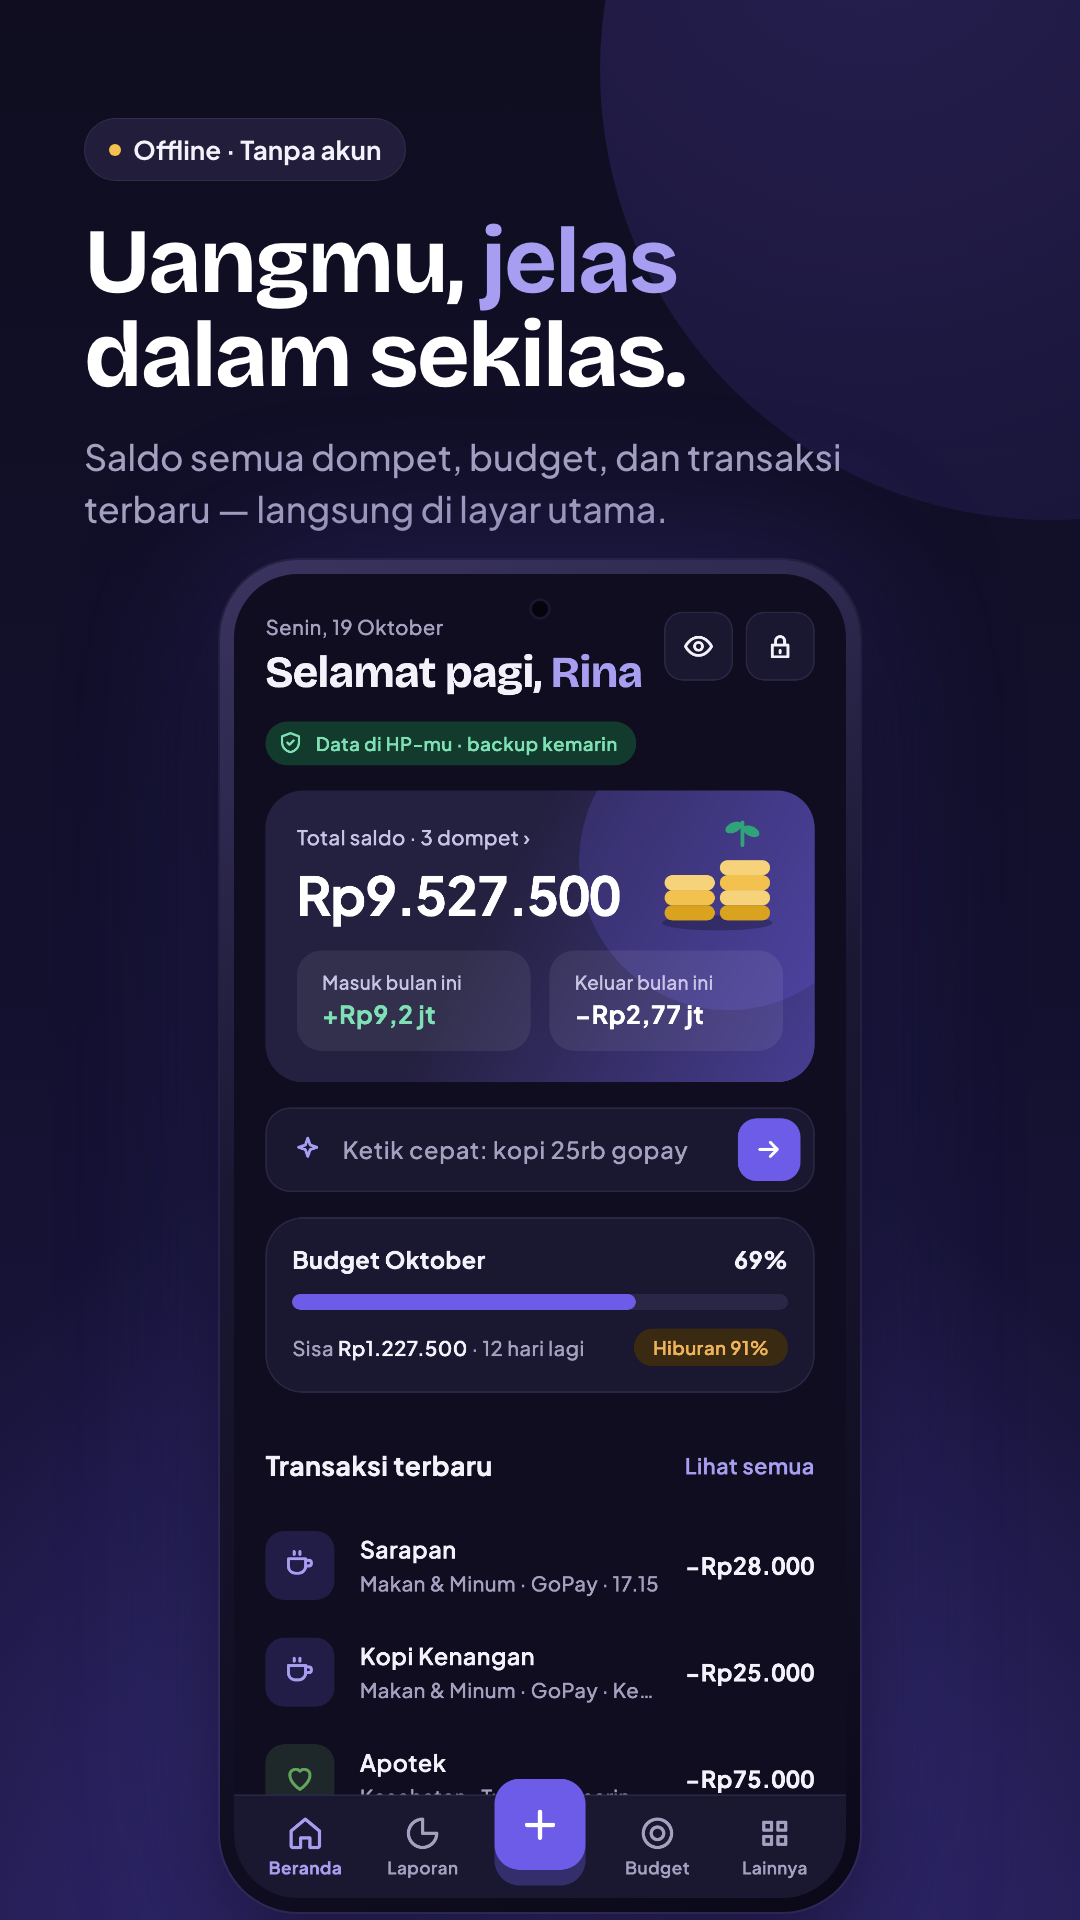
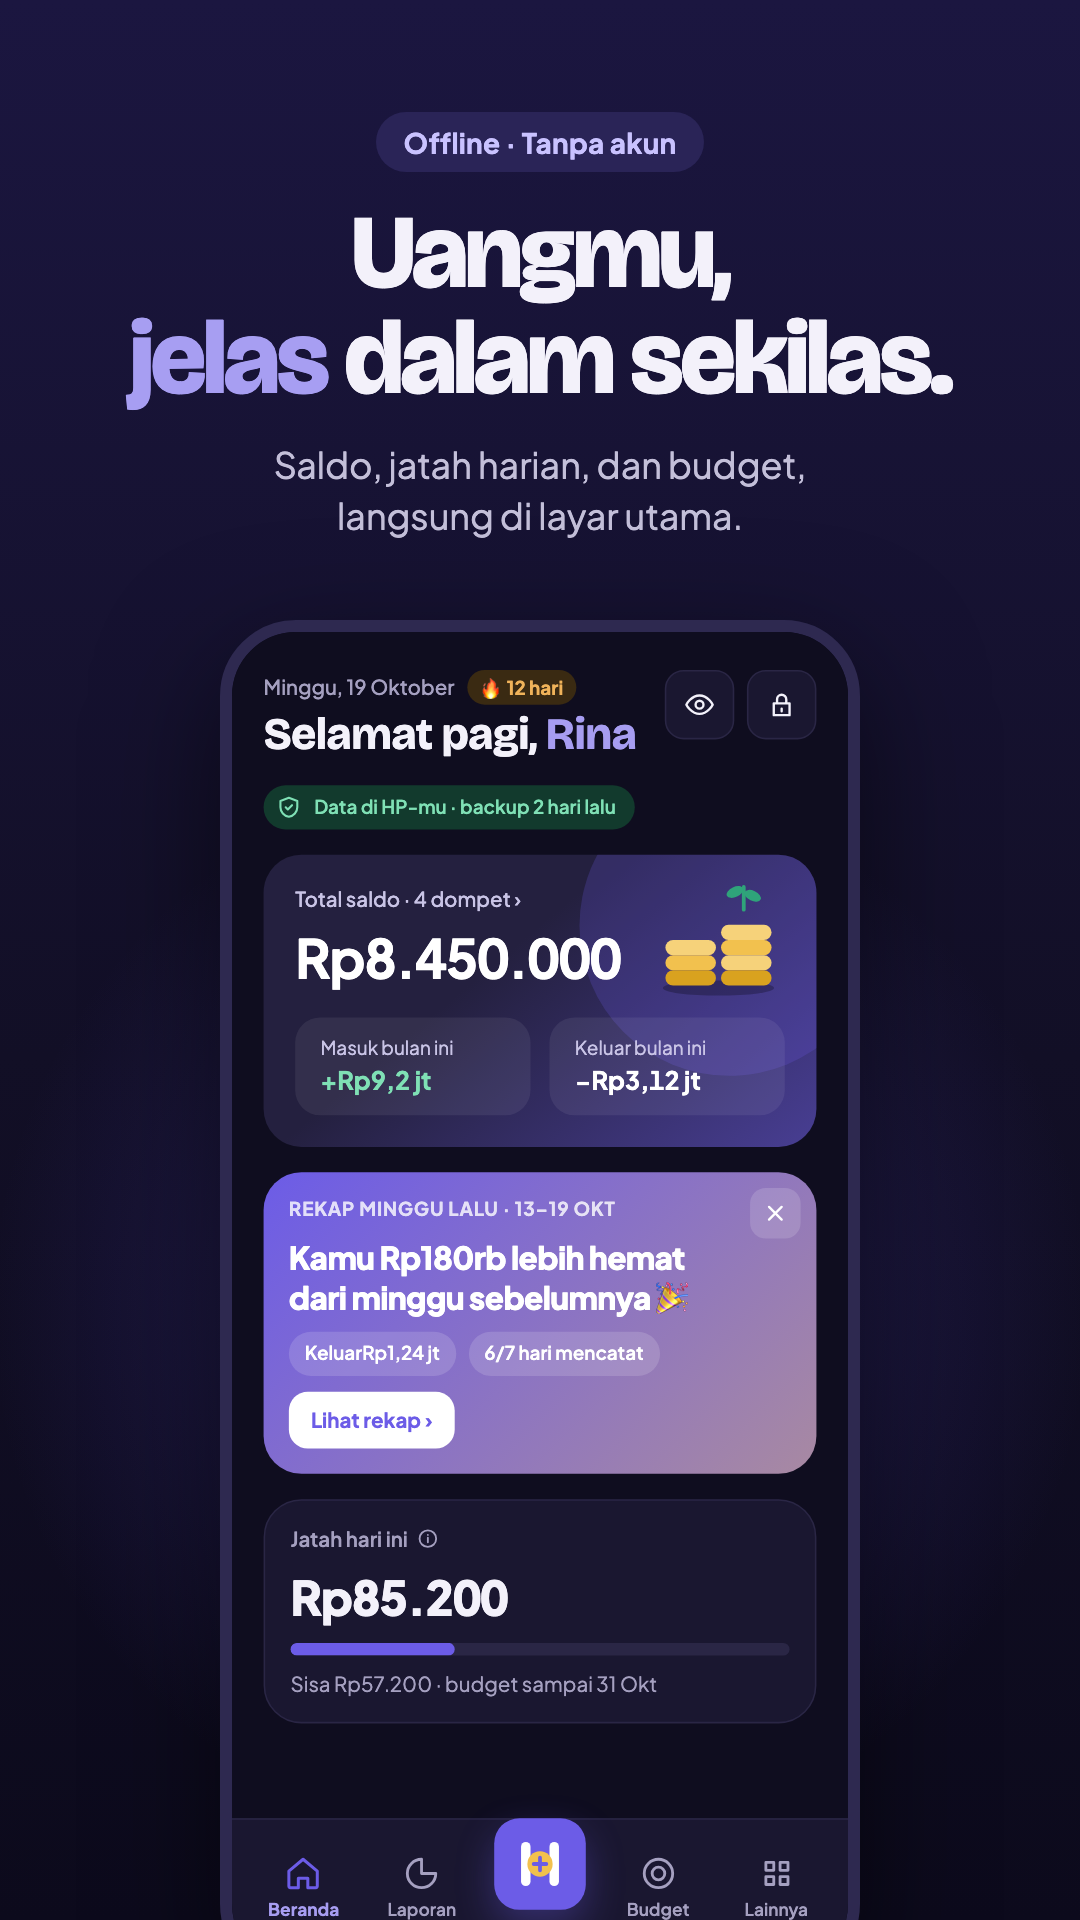
Listingan Play Store baru: 8 screenshot 1080×1920 (Beranda, Catat, Scan struk, Budget, Target, Rapor, Kekayaan, Aman) dari artboard canvas PlayStore01–08; deskripsi diperbarui dengan fitur 0.2, promo Pro gratis s.d. 28 Feb 2027, daftar Pro baru, email halo.hitungin@gmail.com, catatan penggantian tek

diff --git a/branding/play_store/LISTING.md b/branding/play_store/LISTING.md
@@ -1,55 +1,87 @@
 # Listingan Play Store — HitungIn (id)
 
+> Versi 0.2.x (rilis produksi pertama). Bagian **Promo** di deskripsi lengkap wajib
+> diganti setelah PROMO_END (28 Februari 2027) — lihat catatan di bawah.
+
 ## Nama aplikasi (≤30)
 HitungIn - Catat Keuangan
 
 ## Deskripsi singkat (≤80)
-Catat keuangan pribadi tanpa ribet. Offline, tanpa akun, data aman di HP-mu.
+Catat keuangan secepat chat. Offline, tanpa akun, scan struk & backup otomatis.
 
 ## Deskripsi lengkap (≤4000)
 
 HitungIn membantu kamu mencatat pemasukan dan pengeluaran sehari-hari dengan cepat — tanpa akun, tanpa internet, dan datamu tetap di HP-mu sendiri.
 
-✦ CATAT DALAM HITUNGAN DETIK
-Ketik saja "kopi 25rb gopay" — nominal, kategori, dan dompet terisi otomatis. Atau pakai keypad angka yang besar dan nyaman. Kategori favoritmu selalu di depan.
+🎉 PROMO PERKENALAN: SEMUA FITUR PRO GRATIS SAMPAI 28 FEBRUARI 2027
+Tanpa kode, tanpa daftar. Pasang dan langsung pakai semuanya.
 
-✦ SEMUA DOMPET, SATU TEMPAT
-Tunai, rekening bank, dan e-wallet dalam satu layar. Pindah saldo antar dompet, lihat porsinya sekilas, dan sesuaikan saldo kapan saja.
+✦ CATAT SECEPAT CHAT
+Ketik saja "kopi 25rb gopay" — nominal, kategori, dan dompet terisi sendiri. Atau pakai keypad angka yang besar. Transaksi favorit bisa dicatat sekali ketuk dari Beranda atau widget.
 
-✦ BUDGET YANG MENGINGATKAN LEBIH AWAL
-Atur budget bulanan dan per kategori. HitungIn memberi tahu saat pengeluaran lebih cepat dari jadwal — lengkap dengan batas aman per hari sampai akhir bulan. Target bisa berbeda tiap bulan.
+✦ FOTO STRUK, BERES
+Scan struk belanja: total, tanggal, toko, dan dompet terbaca otomatis langsung di HP — tanpa internet, fotonya tidak disimpan.
 
-✦ TAHU KE MANA UANGMU PERGI
-Laporan per kategori, pengeluaran harian, dan arus kas bulanan yang mudah dibaca. Ketuk angka mana pun untuk melihat transaksinya.
+✦ UANGMU, JELAS DALAM SEKILAS
+Saldo semua dompet, jatah aman per hari sampai gajian, dan sisa budget langsung di layar utama. Tunai, rekening bank, dan e-wallet dalam satu tempat.
+
+✦ BUDGET YANG MASUK AKAL
+Mulai dari template 50/30/20 atau atur batas per kategori sendiri. HitungIn mengingatkan lebih awal saat pengeluaran terlalu cepat, dan sisa budget akhir bulan bisa dipindah ke tabungan.
+
+✦ NABUNG JADI TERARAH
+Pasang target tabungan, pantau progresnya, dan rayakan saat tercapai. Ada juga patungan bareng teman dan catatan utang-piutang.
+
+✦ RAPOR & LAPORAN
+Rekap mingguan, rapor keuangan tiap bulan dengan nilai dan saran singkat, serta laporan per kategori dan arus kas. Ekspor ke Excel atau PDF kapan saja.
+
+✦ LIHAT GAMBAR BESARNYA
+Kekayaan bersih: aset, emas, investasi, dan utang dalam satu angka, lengkap dengan tren 12 bulan.
 
 ✦ TAGIHAN TAK LAGI TERLEWAT
-Catat tagihan rutin seperti listrik, internet, atau kos. Lihat yang jatuh tempo dalam 30 hari ke depan dan tandai lunas sekali ketuk — transaksinya tercatat otomatis.
+Catat tagihan dan cicilan rutin, dapat pengingat sebelum jatuh tempo, dan tandai lunas sekali ketuk.
 
 ✦ DATAMU, MILIKMU
-• Tanpa akun dan tanpa server — semua data tersimpan hanya di perangkatmu
+• Tanpa akun dan tanpa server — semua data hanya tersimpan di perangkatmu
 • Database terenkripsi, dikunci PIN atau sidik jari
-• Backup terenkripsi ke lokasi pilihanmu, pulihkan kapan saja
-• Ekspor CSV untuk diolah di spreadsheet
+• Backup otomatis harian ke folder pilihanmu (7 salinan terakhir), terenkripsi dengan password
+• Backup manual & pulihkan kapan saja
 
 ✦ NYAMAN DIPAKAI
-Tema gelap yang elegan, pilihan warna aksen, serta dukungan ukuran huruf besar dan TalkBack.
+Tema gelap yang elegan, pilihan warna aksen, widget layar utama, serta dukungan ukuran huruf besar dan TalkBack.
 
-HITUNGIN PRO (OPSIONAL, SEKALI BAYAR)
-Fitur inti HitungIn gratis selamanya. Kalau mau lebih, HitungIn Pro dibeli sekali — bukan langganan:
-• Tanpa iklan
-• Budget per kategori dan tagihan tanpa batas
-• Laporan semua bulan
-• Pengingat tagihan lewat notifikasi
-• Transaksi berulang otomatis (gaji, langganan, cicilan)
-• Ekspor CSV kapan saja
-• Aksen warna dan ikon aplikasi tambahan
+HITUNGIN PRO — SEKALI BAYAR, BUKAN LANGGANAN
+Fitur inti HitungIn gratis selamanya. HitungIn Pro membuka:
+• Tanpa iklan selamanya
+• Backup otomatis harian
+• Scan struk & export Excel/PDF tanpa batas
+• Budget, tagihan, dan target tanpa batas (termasuk template 50/30/20)
+• Laporan semua bulan & kekayaan bersih lengkap
+• Aksen warna dan ikon aplikasi alternatif
+
+Selama promo, semua fitur Pro di atas bisa dipakai gratis. Setelah promo selesai, data yang sudah kamu buat tetap aman dan tetap terlihat.
 
 Versi gratis menampilkan iklan untuk mendukung pengembangan. Data transaksimu tidak pernah dibagikan ke pengiklan.
 
 Kebijakan privasi: https://appgratis.id/hitungin/privacy-policy
-Pertanyaan & saran: support@appgratis.id
+Pertanyaan & saran: halo.hitungin@gmail.com
+
+## Setelah promo (mulai 1 Maret 2027)
+Hapus blok "🎉 PROMO PERKENALAN…" dan kalimat "Selama promo, …". Ganti dengan:
+
+> 🎉 HARGA PERKENALAN: HitungIn Pro Rp29.000 (normal Rp39.000) sampai 30 Maret 2027.
+
+Setelah 30 Maret 2027 hapus juga baris itu.
 
 ## Aset grafis
 - Ikon (512×512): `icon_512.png`
 - Gambar fitur (1024×500): `feature_graphic_1024x500.png`
-- Screenshot ponsel (1080×1920, urutan unggah): `screenshots/01_beranda.png` … `07_aman.png`
+- Screenshot ponsel (1080×1920, urutan unggah):
+  1. `screenshots/01_beranda.png` — Uangmu, jelas dalam sekilas.
+  2. `screenshots/02_catat.png` — Catat secepat chat.
+  3. `screenshots/03_scan_struk.png` — Foto struk, beres.
+  4. `screenshots/04_budget.png` — Budget yang masuk akal.
+  5. `screenshots/05_target.png` — Nabung jadi terarah.
+  6. `screenshots/06_rapor.png` — Rapor keuangan tiap bulan.
+  7. `screenshots/07_kekayaan.png` — Lihat gambar besarnya.
+  8. `screenshots/08_aman.png` — Datamu, milikmu.
+- Sumber desain screenshot: artboard `PlayStore01…08` di canvas Claude Design.
